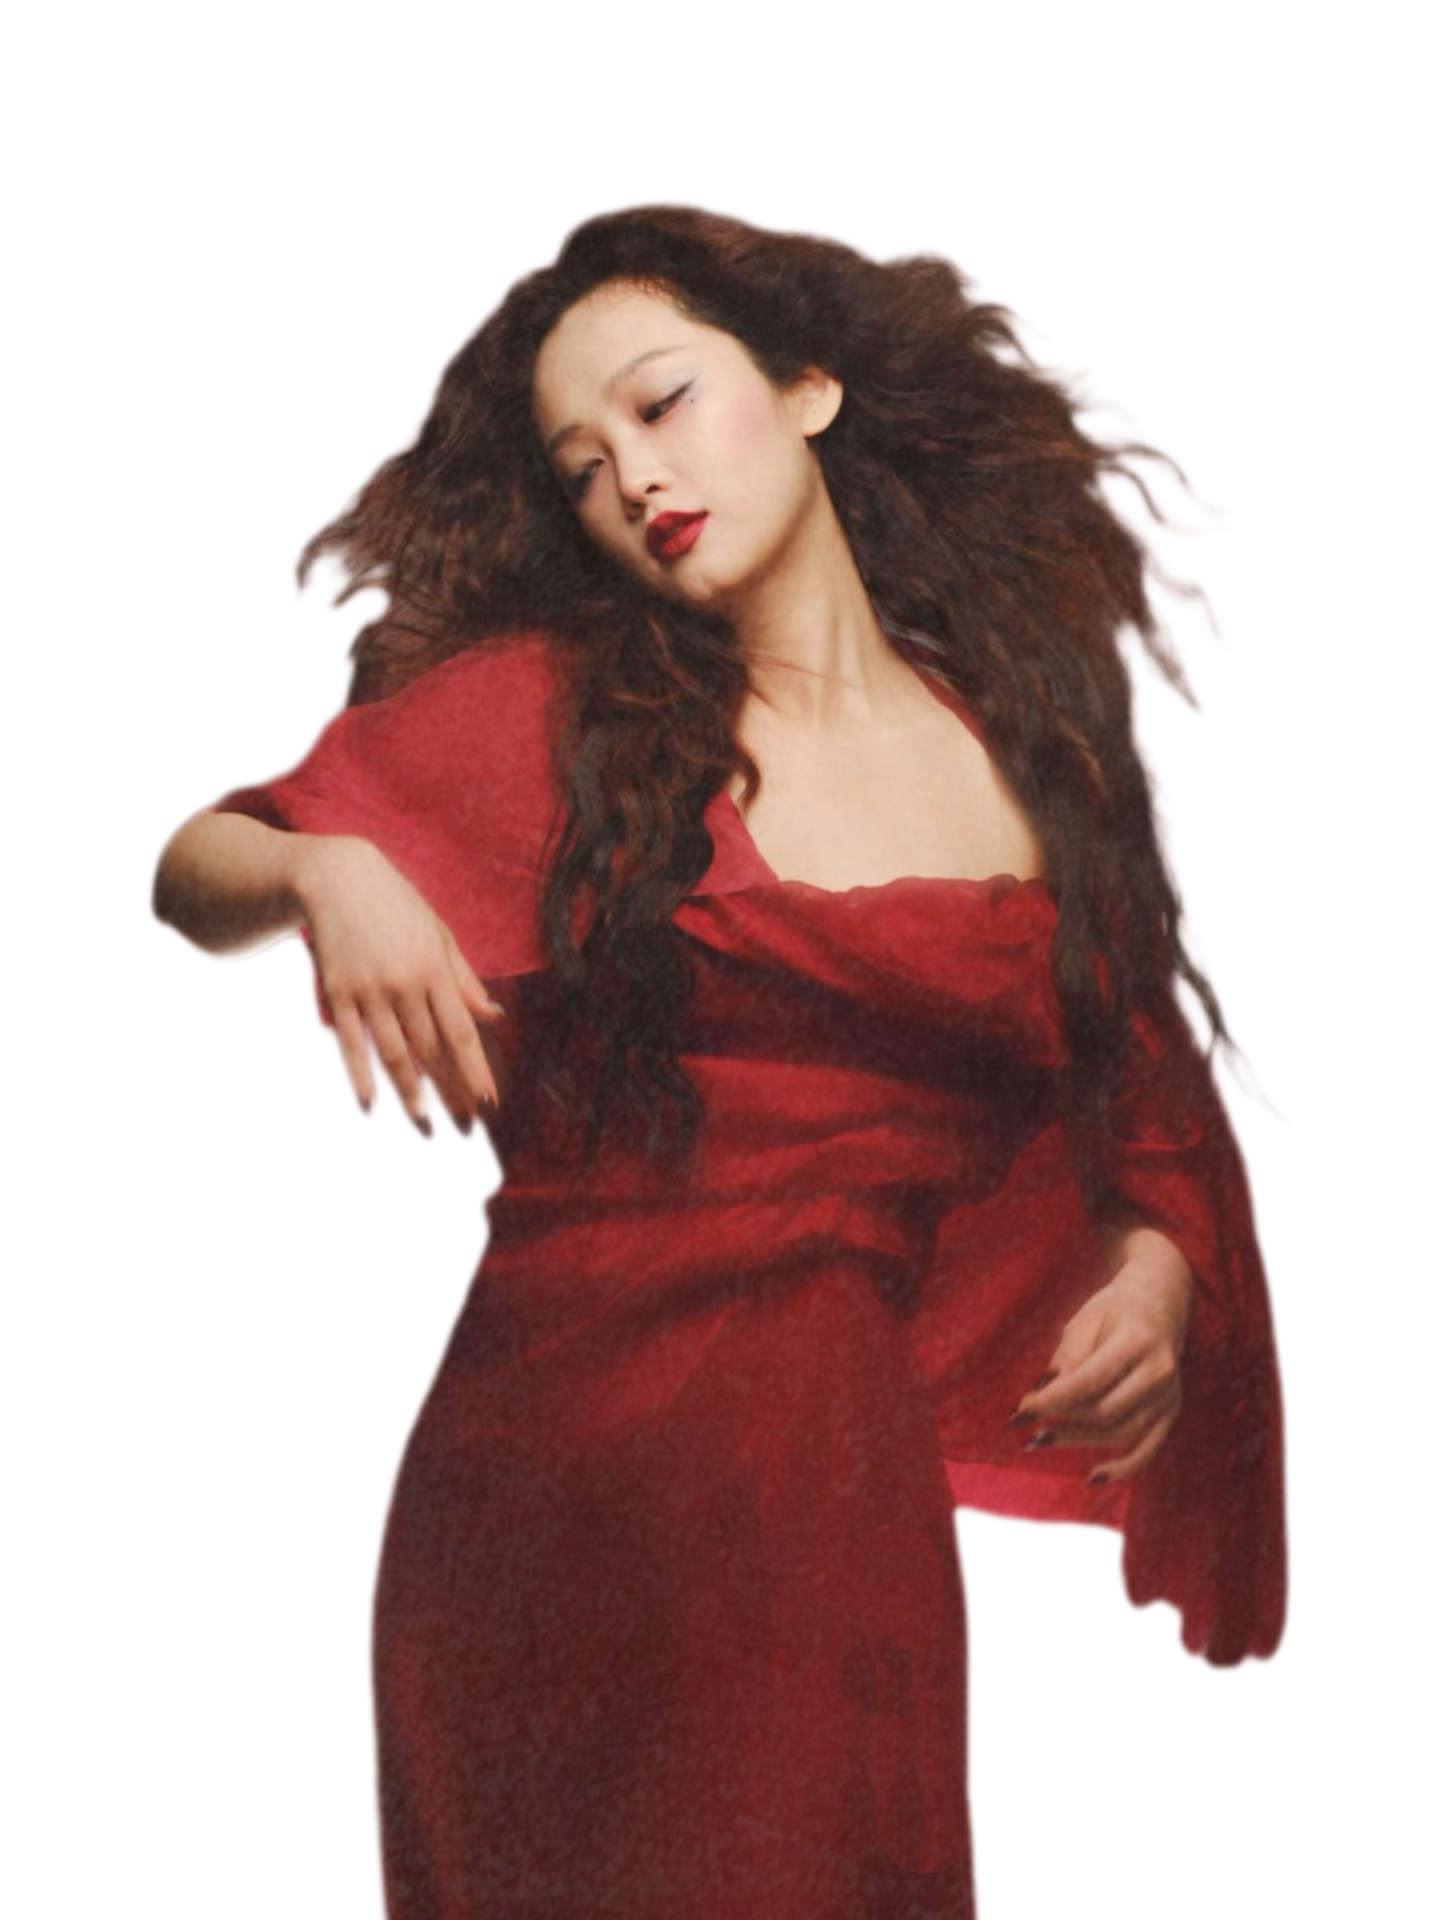
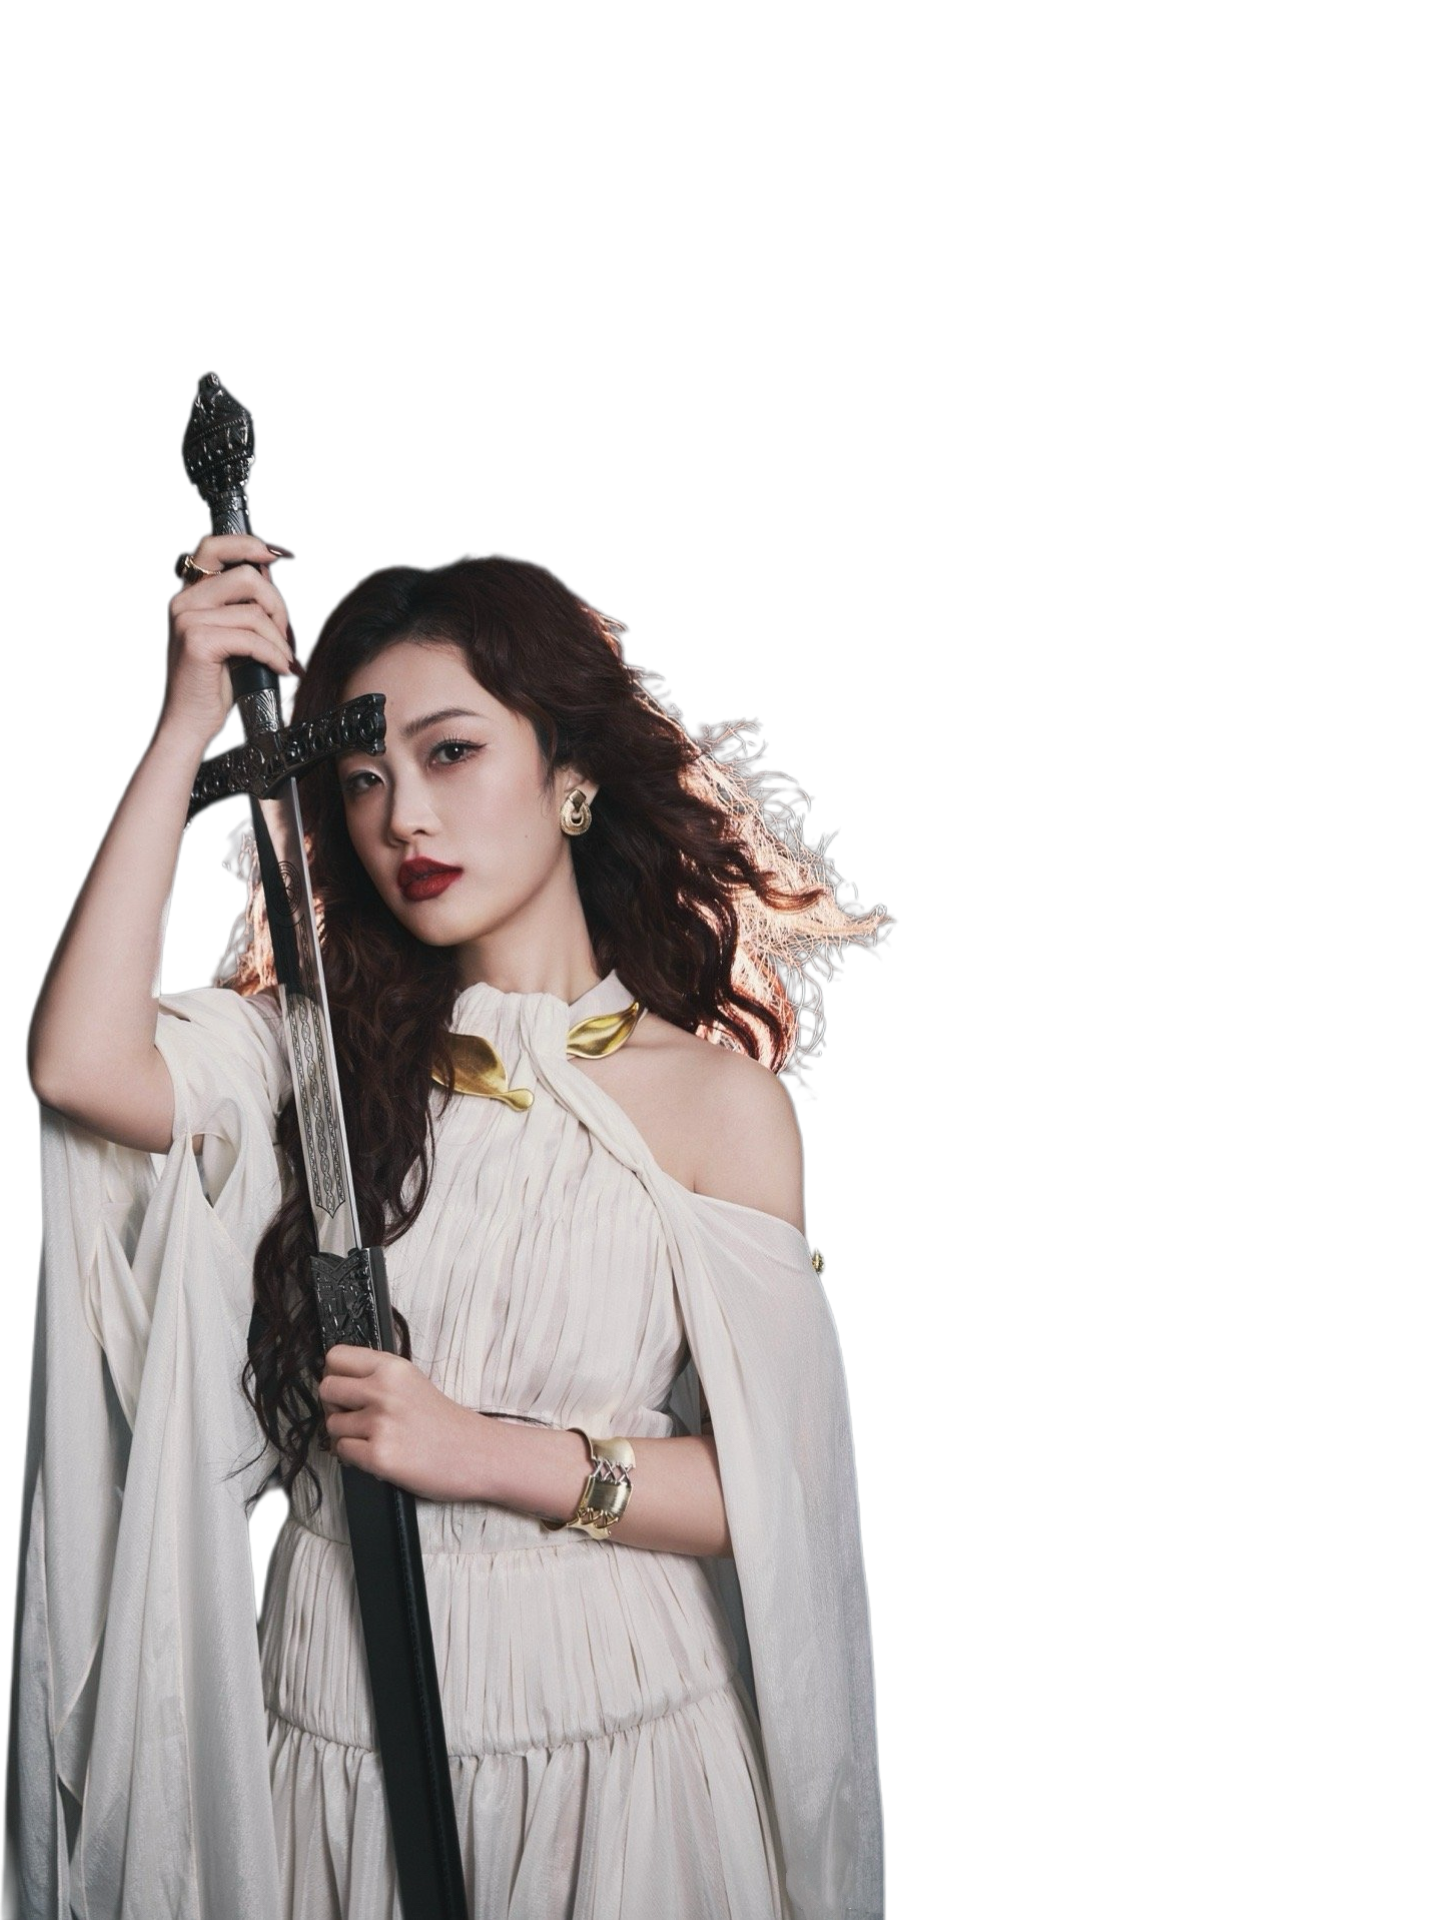
背景

diff --git a/index.html b/index.html
@@ -3,7 +3,7 @@
 <head>
     <meta charset="UTF-8">
     <meta name="viewport" content="width=device-width, initial-scale=1.0, maximum-scale=1.0, user-scalable=no">
-    <title>红霞影剧院 - 陈婧霏巡演打卡纪念馆</title>
+    <title>陈婧霏·红霞影剧院</title>
     <!-- Favicon & Add-to-Home-Screen Icons -->
     <link rel="icon" type="image/png" href="images/app.png">
     <link rel="apple-touch-icon" href="images/app.png">
@@ -408,6 +408,22 @@
         .modal-gallery-arrow.left { left: 4px; }
         .modal-gallery-arrow.right { right: 4px; }
 
+        /* Section reveal: background first (no mask), then dark overlay + content fades in after 1s */
+        .section-delay { position: relative; }
+        .section-delay::before {
+            content: '';
+            position: absolute;
+            inset: 0;
+            background: rgba(0,0,0,0.65);
+            opacity: 0;
+            z-index: 1;
+            pointer-events: none;
+        }
+        .section-delay > * { opacity: 0; position: relative; z-index: 2; }
+        .section-delay.reveal::before { animation: sectionReveal 0.4s ease 1s forwards; }
+        .section-delay.reveal > * { animation: sectionReveal 0.4s ease 1s forwards; }
+        @keyframes sectionReveal { to { opacity: 1; } }
+
         /* Multi-image preview in form */
         .mail-preview-row {
             display: flex;
@@ -692,7 +708,7 @@
         </header>
 
         <!-- THEATER BUILDING OVERVIEW (THE MAP VIEW) -->
-        <main id="mainMapScreen" class="hidden flex-1 min-h-0 w-full max-w-4xl mx-auto p-3 flex flex-col items-center justify-center">
+        <main id="mainMapScreen" class="hidden flex-1 min-h-0 w-full max-w-4xl mx-auto p-3 flex flex-col items-center justify-center" style="background-image: url('images/background/overheadview.png'); background-size: cover; background-position: center; background-repeat: no-repeat;">
             
             <div class="text-center my-2">
                 <h2 class="text-retro-gold text-base md:text-lg tracking-[0.2em] font-bold uppercase">剧院全景俯瞰图</h2>
@@ -700,7 +716,7 @@
             </div>
 
             <!-- The Beautiful Interactive Architectural Facade Diagram -->
-            <div class="w-full h-[50vh] bg-[#140b0d] border border-retro-gold p-4 rounded shadow-2xl relative overflow-y-auto flex flex-col gap-3">
+            <div class="w-full h-[50vh] bg-[#d4b896] border border-retro-gold p-4 rounded shadow-2xl relative overflow-y-auto flex flex-col gap-3">
                 
                 <!-- CRT styling on theater overview -->
                 <div class="absolute inset-0 crt-scanline pointer-events-none opacity-20"></div>
@@ -852,15 +868,15 @@
         <!-- ============================================== -->
         <!-- AREA 1: MAILROOM (收发室)                       -->
         <!-- ============================================== -->
-        <section id="mailroom" class="hidden flex-1 w-full max-w-4xl mx-auto p-3 flex flex-col overflow-hidden bg-cover bg-center" style="background-image: linear-gradient(rgba(0,0,0,0.65), rgba(0,0,0,0.65)), url('images/background/theatre.png');">
+        <section id="mailroom" class="section-delay hidden flex-1 w-full max-w-4xl mx-auto p-3 flex flex-col overflow-hidden bg-cover bg-center" style="background-image: url('images/background/mailroom.png');">
             <!-- Nav Row -->
             <div class="flex justify-between items-center mb-3 pb-2">
                 <button onclick="navigateTo('main-map')" class="px-3 py-1 bg-black/50 backdrop-blur-sm border border-retro-gold/50 text-retro-gold text-[10px] rounded active:scale-95 transition-all font-mono uppercase">
                     <i class="fa-solid fa-arrow-left"></i> 返回主图
                 </button>
                 <div class="text-right">
-                    <h2 class="text-retro-neonred text-base font-bold font-serif drop-shadow-lg">📪 收发室</h2>
-                    <p class="text-[9px] text-retro-gold uppercase font-mono drop-shadow">Pigeonholes</p>
+                    <h2 class="text-retro-neonred text-base font-bold font-serif drop-shadow-lg">📨 收发室</h2>
+                    <p class="text-[9px] text-retro-gold uppercase font-mono drop-shadow">Mailroom</p>
                 </div>
             </div>
 
@@ -938,13 +954,13 @@
         <!-- ============================================== -->
         <!-- AREA 2: MAIN LOBBY (一楼大厅 - 物料角落 & 纪念品商店) -->
         <!-- ============================================== -->
-        <section id="lobby" class="hidden flex-1 w-full max-w-4xl mx-auto p-3 flex flex-col overflow-hidden bg-cover bg-center" style="background-image: linear-gradient(rgba(0,0,0,0.65), rgba(0,0,0,0.65)), url('images/background/theatre.png');">
+        <section id="lobby" class="section-delay hidden flex-1 w-full max-w-4xl mx-auto p-3 flex flex-col overflow-hidden bg-cover bg-center" style="background-image: url('images/background/lobby.png');">
             <div class="flex justify-between items-center mb-3 pb-2">
                 <button id="lobbyBackBtn" onclick="handleLobbyBack()" class="px-3 py-1 bg-black/50 backdrop-blur-sm border border-retro-gold/50 text-retro-gold text-[10px] rounded active:scale-95 transition-all font-mono uppercase">
                     <i class="fa-solid fa-arrow-left"></i> 返回主图
                 </button>
                 <div class="text-right">
-                    <h2 class="text-retro-neonred text-base font-bold font-serif drop-shadow-lg" id="lobbyTitleText">🖼️ 一楼大厅</h2>
+                    <h2 class="text-retro-neonred text-base font-bold font-serif drop-shadow-lg" id="lobbyTitleText">🏛️ 一楼大厅</h2>
                     <p class="text-[9px] text-retro-gold uppercase font-mono drop-shadow" id="lobbySubText">Grand Lobby</p>
                 </div>
             </div>
@@ -1380,7 +1396,7 @@
         <!-- ============================================== -->
         <!-- AREA 4: BUSINESS DEPARTMENT (业务部 - 3大分支)  -->
         <!-- ============================================== -->
-        <section id="business-dept" class="hidden flex-1 w-full max-w-4xl mx-auto p-3 flex flex-col overflow-hidden bg-cover bg-center" style="background-image: linear-gradient(rgba(0,0,0,0.65), rgba(0,0,0,0.65)), url('images/background/theatre.png');">
+        <section id="business-dept" class="section-delay hidden flex-1 w-full max-w-4xl mx-auto p-3 flex flex-col overflow-hidden bg-cover bg-center" style="background-image: url('images/background/corridor.png');">
             <div class="flex justify-between items-center mb-3 pb-2">
                 <button id="deptBackBtn" onclick="handleDeptBack()" class="px-3 py-1 bg-black/50 backdrop-blur-sm border border-retro-gold/50 text-retro-gold text-[10px] rounded active:scale-95 transition-all font-mono uppercase">
                     <i class="fa-solid fa-arrow-left"></i> 返回主图
@@ -2203,6 +2219,21 @@
                             <span class="underline">观看演出视频</span>
                         </div>
                     </a>
+                    <a href="https://video.weibo.com/show?fid=1034:5243550565335050" target="_blank" class="group relative bg-retro-darkwood/80 backdrop-blur-sm border border-retro-gold/25 rounded p-3 flex flex-col justify-between transition-all">
+                        <div class="relative aspect-video w-full bg-black rounded overflow-hidden border border-gray-900">
+                            <div class="absolute inset-0 crt-scanline opacity-30 z-10"></div>
+                            <img src="images/director/docum 3.webp" alt="上海巡演现场" class="w-full h-full object-cover">
+                            <div class="absolute inset-0 flex items-center justify-center bg-black/40">
+                                <i class="fa-regular fa-circle-play text-2xl text-retro-gold"></i>
+                            </div>
+                        </div>
+                        <h4 class="text-white text-xs font-bold mt-2 font-serif">上海站·巡演回顾短片</h4>
+                        <p class="text-[10px] text-gray-400 mt-1">One Night In Shanghai.2025.12.12</p>
+                        <div class="mt-3 border-t border-retro-gold/10 pt-1.5 flex justify-between text-[8px] text-retro-gold font-mono">
+                            <span>26:17</span>
+                            <span class="underline">观看演出视频</span>
+                        </div>
+                    </a>
 
 
                 </div>
@@ -2660,7 +2691,7 @@
         <!-- ============================================== -->
         <!-- AREA 5: BOX OFFICE (售票处 - 打卡与纪念票生成)   -->
         <!-- ============================================== -->
-        <section id="box-office" class="hidden flex-1 w-full max-w-4xl mx-auto p-3 flex flex-col overflow-hidden bg-cover bg-center" style="background-image: linear-gradient(rgba(0,0,0,0.65), rgba(0,0,0,0.65)), url('images/background/theatre.png');">
+        <section id="box-office" class="section-delay hidden flex-1 w-full max-w-4xl mx-auto p-3 flex flex-col overflow-hidden bg-cover bg-center" style="background-image: url('images/background/ticketoffice.png');">
             <div class="flex justify-between items-center mb-3 pb-2">
                 <button onclick="navigateTo('main-map')" class="px-3 py-1 bg-black/50 backdrop-blur-sm border border-retro-gold/50 text-retro-gold text-[10px] rounded active:scale-95 transition-all font-mono uppercase">
                     <i class="fa-solid fa-arrow-left"></i> 返回主图
@@ -2856,7 +2887,7 @@
         </section>
 
         <!-- Visual Novel + Puzzle Overlay (shown when not logged in) -->
-        <div id="vnOverlay" class="hidden fixed inset-0 z-[200] bg-black flex flex-col items-center justify-center">
+        <div id="vnOverlay" class="hidden fixed inset-0 z-[200] flex flex-col items-center justify-center" style="background-image: url('images/background/ticketoffice.png'); background-size: cover; background-position: center;">
             <!-- Skip button -->
             <button onclick="skipVN()" class="absolute top-4 right-4 z-10 px-3 py-1.5 border border-gray-500/50 text-gray-500 text-[10px] rounded active:scale-95 transition-all font-mono hover:border-gray-400 hover:text-gray-400">跳过 ▸</button>
             <!-- Character sprite area -->
@@ -2891,7 +2922,7 @@
             <div class="text-center">
                 <div class="text-4xl mb-4">🎬</div>
                 <h2 class="text-retro-gold font-serif text-xl mb-2">剧本在你手中</h2>
-                <p class="text-gray-400 text-xs mb-6 font-mono">The script is yours to write.</p>
+                <p class="text-gray-400 text-xs mb-6 font-mono">Are you ready?</p>
                 <button onclick="closePuzzleEnd()" class="px-8 py-3 bg-retro-burgundy border-2 border-retro-gold text-retro-gold font-bold text-sm rounded active:scale-95 transition-all font-serif">
                     进入售票处
                 </button>
@@ -3135,6 +3166,7 @@
             hasPlayedMusic: false,
             hasSentPostcard: false,
             hasPostedCraft: false,
+            hasSolvedSpell: false,
             unlockedAchievements: [],
             stopMoods: {}
         };
@@ -3373,6 +3405,7 @@
             localStorage.setItem('hongxia_session', JSON.stringify(sessionData));
             loadUserCheckinData();
             loadUserMoods();
+            loadUserAchievements();
             if (STATE.userRole === 'host') syncHostCheckins();
             updateHeaderUserDisplay();
         }
@@ -3420,6 +3453,7 @@
             STATE.hasPlayedMusic = false;
             STATE.hasSentPostcard = false;
             STATE.hasPostedCraft = false;
+            STATE.hasSolvedSpell = false;
             playShortBeep(400, 0.08);
             showRetroMessage('已退出登录，数据已保存到本地。');
             syncAuthUI();
@@ -3518,6 +3552,7 @@
             STATE.userRole = session.userRole || 'audience';
             loadUserCheckinData();
             loadUserMoods();
+            loadUserAchievements();
             if (STATE.userRole === 'host') syncHostCheckins();
         }
 
@@ -3534,6 +3569,7 @@
             STATE.hasPlayedMusic = lsGet('played_music') === 'true';
             STATE.hasSentPostcard = lsGet('sent_postcard') === 'true';
             STATE.hasPostedCraft = lsGet('posted_craft') === 'true';
+            STATE.hasSolvedSpell = lsGet('solved_spell') === 'true';
             const ach = lsGet('achievements');
             if (ach) { try { STATE.unlockedAchievements = JSON.parse(ach); } catch(e) { STATE.unlockedAchievements = []; } }
             else { STATE.unlockedAchievements = []; }
@@ -3866,11 +3902,11 @@
 
         const ACHIEVEMENTS = [
             { id: "reg_passport", title: "影剧院来客", desc: "在售票处成功登记购票", quote: "「灵感被灌溉，所有感受都被善待」", icon: "👤" },
-            { id: "read_stops", title: "16mm", desc: "在豪华大影厅浏览过5个城市的放映纪实", quote: "「镜头」", icon: "🎬" },
-            { id: "play_vinyl", title: "留声机侍者", desc: "在演员排练室里启动留声机播放现场乐曲", quote: "「留声机转动着，那些未曾开口的温柔。」 —《蓝莓夜》", icon: "🎵" },
+            { id: "read_stops", title: "剧院观影人", desc: "在豪华大影厅浏览过5个城市的放映纪实", quote: "「镜头里的你，镜头慢慢清晰」", icon: "🎬" },        
             { id: "send_postcard", title: "春色寄情人", desc: "在收发室成功投递一封明信片", quote: "「春色悠悠不及你荡漾」", icon: "✉️" },
             { id: "post_craft", title: "物料主理人", desc: "在大厅布告板上登记了一款物料", quote: "「把感性的好奇，装进行李」", icon: "🎨" },
-            { id: "ambient_on", title: "放映机余音", desc: "开启放映机环境背景音，听到温热声浪", quote: "「在这温热的声浪里，听见胶片滚动的呼吸。」", icon: "📻" }
+            { id: "ambient_on", title: "放映机余音", desc: "开启放映机环境背景音，聆听红霞影剧院原声歌单", quote: "「在这温热的声浪里，听见胶片滚动的呼吸。」", icon: "📻" },
+            { id: "spell_decipher", title: "咒语解密人", desc: "成功解密猩红女巫的咒语", quote: "「剧情对白角色 都是我」", icon: "🔮" }
         ];
 
         const TOUR_STOPS = [
@@ -4147,6 +4183,8 @@
             // Load check-in data for user (scoped by account)
             if (STATE.isLoggedIn) {
                 loadUserCheckinData();
+                loadUserMoods();
+                loadUserAchievements();
             }
 
             // Fallback: legacy localStorage values if not logged in
@@ -4333,6 +4371,14 @@
             timerEl.innerText = `${days}天 ${hours}小时 ${minutes}分 ${seconds}秒`;
         }
 
+        function triggerSectionReveal(sectionId) {
+            const section = document.getElementById(sectionId);
+            if (!section) return;
+            section.classList.remove('reveal');
+            void section.offsetWidth;
+            section.classList.add('reveal');
+        }
+
         function navigateTo(screenId) {
             const overlay = document.getElementById('transitionOverlay');
 
@@ -4364,10 +4410,12 @@
                     document.getElementById('mailroom').style.display = 'flex';
                     hideMailForm();
                     renderPigeonholes();
+                    triggerSectionReveal('mailroom');
                 } else if (screenId === 'lobby') {
                     document.getElementById('lobby').style.display = 'flex';
                     showLobbySubView('hallway');
                     renderCrafts();
+                    triggerSectionReveal('lobby');
                 } else if (screenId === 'grand-cinema') {
                     document.getElementById('grand-cinema').style.display = 'flex';
                     renderCinemaFilters();
@@ -4375,6 +4423,7 @@
                 } else if (screenId === 'business-dept') {
                     document.getElementById('business-dept').style.display = 'flex';
                     showDeptSubView('hallway');
+                    triggerSectionReveal('business-dept');
                 } else if (screenId === 'box-office') {
                     if (startVisualNovel()) {
                         // Still need to fade in from black
@@ -4386,6 +4435,7 @@
                     if (boxOfficeEl) boxOfficeEl.style.display = 'flex';
                     syncChecklistVisuals();
                     syncMapDotsVisuals();
+                    triggerSectionReveal('box-office');
                 }
 
                 // Phase 3: fade in from black
@@ -4425,7 +4475,7 @@
 
             if (subId === 'hallway') {
                 document.getElementById('lobbyHallway').style.display = 'flex';
-                lobbyTitleText.innerText = '🖼️ 一楼大厅';
+                lobbyTitleText.innerText = '🏛️ 一楼大厅';
                 lobbySubText.innerText = 'Grand Lobby';
                 lobbyBackBtn.innerHTML = `<i class="fa-solid fa-arrow-left"></i> 返回主图`;
             } else if (subId === 'materials') {
@@ -6957,6 +7007,57 @@
             }
         }
 
+        async function syncAchievementsToSupabase() {
+            if (!isSupabaseReady() || !STATE.isLoggedIn || !STATE.userId) return;
+            try {
+                const ids = STATE.unlockedAchievements || [];
+                const { data: existing, error: selectErr } = await supabaseClient
+                    .from('achievements')
+                    .select('id')
+                    .eq('user_id', STATE.userId)
+                    .maybeSingle();
+                if (selectErr) {
+                    console.error('[Achievements] select failed:', selectErr);
+                    return;
+                }
+                let saveErr = null;
+                if (existing) {
+                    const { error } = await supabaseClient.from('achievements')
+                        .update({ achievement_ids: ids, updated_at: new Date().toISOString() })
+                        .eq('id', existing.id);
+                    saveErr = error;
+                } else {
+                    const { error } = await supabaseClient.from('achievements')
+                        .insert({ user_id: STATE.userId, achievement_ids: ids });
+                    saveErr = error;
+                }
+                if (saveErr) {
+                    console.error('[Achievements] save failed:', saveErr);
+                }
+            } catch (e) {
+                console.warn('[Achievements] Supabase sync failed:', e.message);
+            }
+        }
+
+        async function loadUserAchievements() {
+            if (!isSupabaseReady() || !STATE.isLoggedIn || !STATE.userId) return;
+            try {
+                const { data, error } = await supabaseClient
+                    .from('achievements')
+                    .select('achievement_ids')
+                    .eq('user_id', STATE.userId)
+                    .maybeSingle();
+                if (error) throw error;
+                if (data && Array.isArray(data.achievement_ids) && data.achievement_ids.length > 0) {
+                    STATE.unlockedAchievements = data.achievement_ids;
+                    lsSet('achievements', JSON.stringify(STATE.unlockedAchievements));
+                    checkAchievements();
+                }
+            } catch (e) {
+                console.warn('[Achievements] Supabase load failed, using localStorage fallback:', e.message);
+            }
+        }
+
         function toggleCheckinForCurrentStop() {
             if (!STATE.isLoggedIn) {
                 playShortBeep(300, 0.1);
@@ -7354,6 +7455,11 @@
                 unlockedAny = unlockedAny || unlockSingle("ambient_on");
             }
 
+            // 8. Solved the Scarlet Witch's spell puzzle
+            if (STATE.hasSolvedSpell) {
+                unlockedAny = unlockedAny || unlockSingle("spell_decipher");
+            }
+
             // Sync with DOM
             syncAchievements();
         }
@@ -7365,7 +7471,8 @@
             if (!STATE.unlockedAchievements.includes(id)) {
                 STATE.unlockedAchievements.push(id);
                 lsSet('achievements', JSON.stringify(STATE.unlockedAchievements));
-                
+                syncAchievementsToSupabase();
+
                 const achievement = ACHIEVEMENTS.find(a => a.id === id);
                 if (achievement) {
                     setTimeout(() => {
@@ -7395,7 +7502,7 @@
                     ${ach.icon}
                 </div>
                 <div class="flex-1">
-                    <div class="text-[9px] text-retro-gold uppercase tracking-widest font-mono font-bold">🎉 恭喜解锁红霞成就！</div>
+                    <div class="text-[9px] text-retro-gold uppercase tracking-widest font-mono font-bold">🎉 恭喜解锁新成就！</div>
                     <div class="text-white font-bold font-serif text-xs mt-0.5">${ach.title}</div>
                     <div class="text-[10px] text-gray-400 mt-0.5">${ach.desc}</div>
                 </div>
@@ -7496,9 +7603,9 @@
         // VISUAL NOVEL + WORD PUZZLE (售票处未登录互动)
         // ==============================================
         const VN_DIALOGS = [
-            { name: '???', text: '欢迎来到红霞影剧院，我是这里的主（理）人陈婧霏，你也可以尊称我为猩红女巫。' },
+            { name: '???', text: '欢迎来到红霞影剧院，我是这里的主（理）人陈婧霏，你也可以尊称我为美丽、性感、才华横溢的猩红女巫。' },
             { name: '猩红女巫', text: '在这里，我是每一场演出的导演、编剧和演员。愿你在此也能尽情挥洒绽放，发现自己内心的力量，成为自己人生的导演、编剧和演员。' },
-            { name: '猩红女巫', text: '这个世界因为我们相信而存在，这片空间也因为相信的力量而出现在这个按部就班的世界。' },
+            { name: '猩红女巫', text: '这个世界因为我们相信而存在，这座光影魔法空间也因为相信的力量而出现在这个按部就班的世界。' },
             { name: '猩红女巫', text: '谢谢你如此有品位地来到这里，但在进入剧场之前……让我看看你是否懂得自己的力量。' },
             { name: '猩红女巫', text: '来，试试排列这些词语，念出那句神奇的咒语吧。' }
         ];
@@ -7531,6 +7638,7 @@
             document.getElementById('box-office').style.display = 'flex';
             syncChecklistVisuals();
             syncMapDotsVisuals();
+            triggerSectionReveal('box-office');
         }
 
         function showVNDialog() {
@@ -7745,6 +7853,9 @@
                 fb.className = 'text-center mt-4 text-sm font-bold text-retro-neonred';
                 fb.classList.remove('hidden');
                 playShortBeep(720, 0.1);
+                STATE.hasSolvedSpell = true;
+                lsSet('solved_spell', 'true');
+                checkAchievements();
                 setTimeout(() => {
                     document.getElementById('puzzleOverlay').classList.add('hidden');
                     document.getElementById('puzzleEndOverlay').classList.remove('hidden');